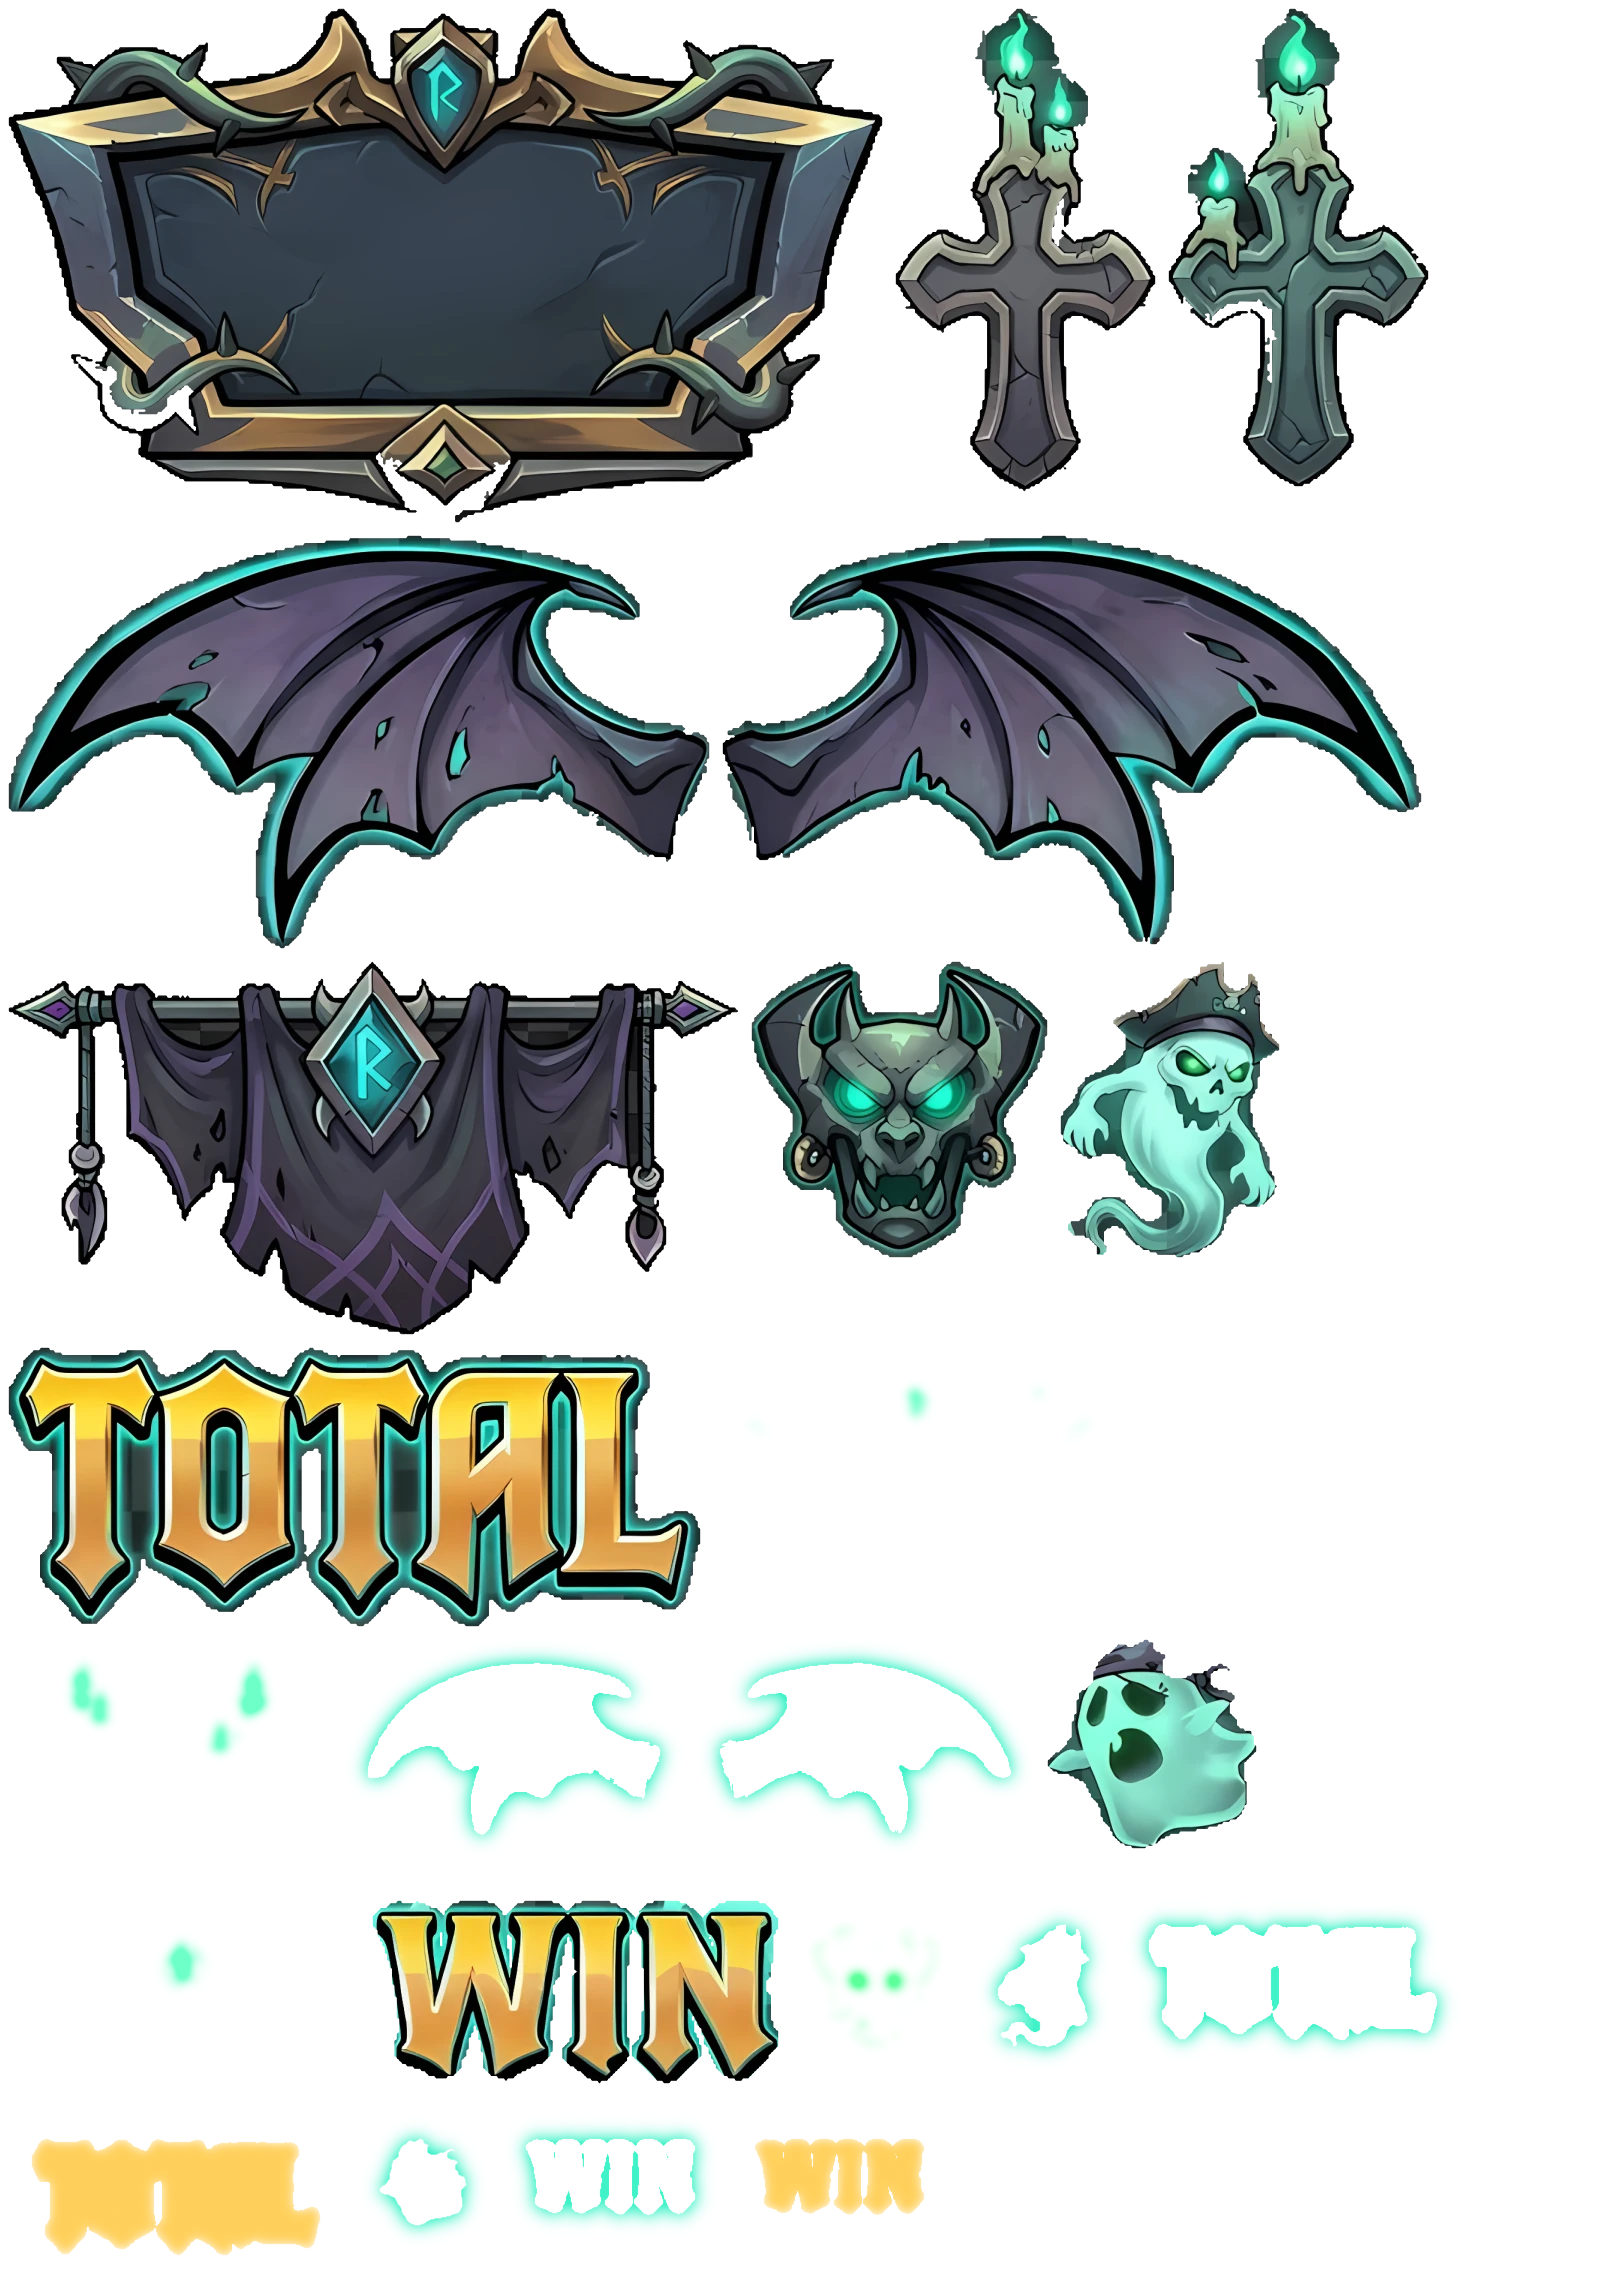
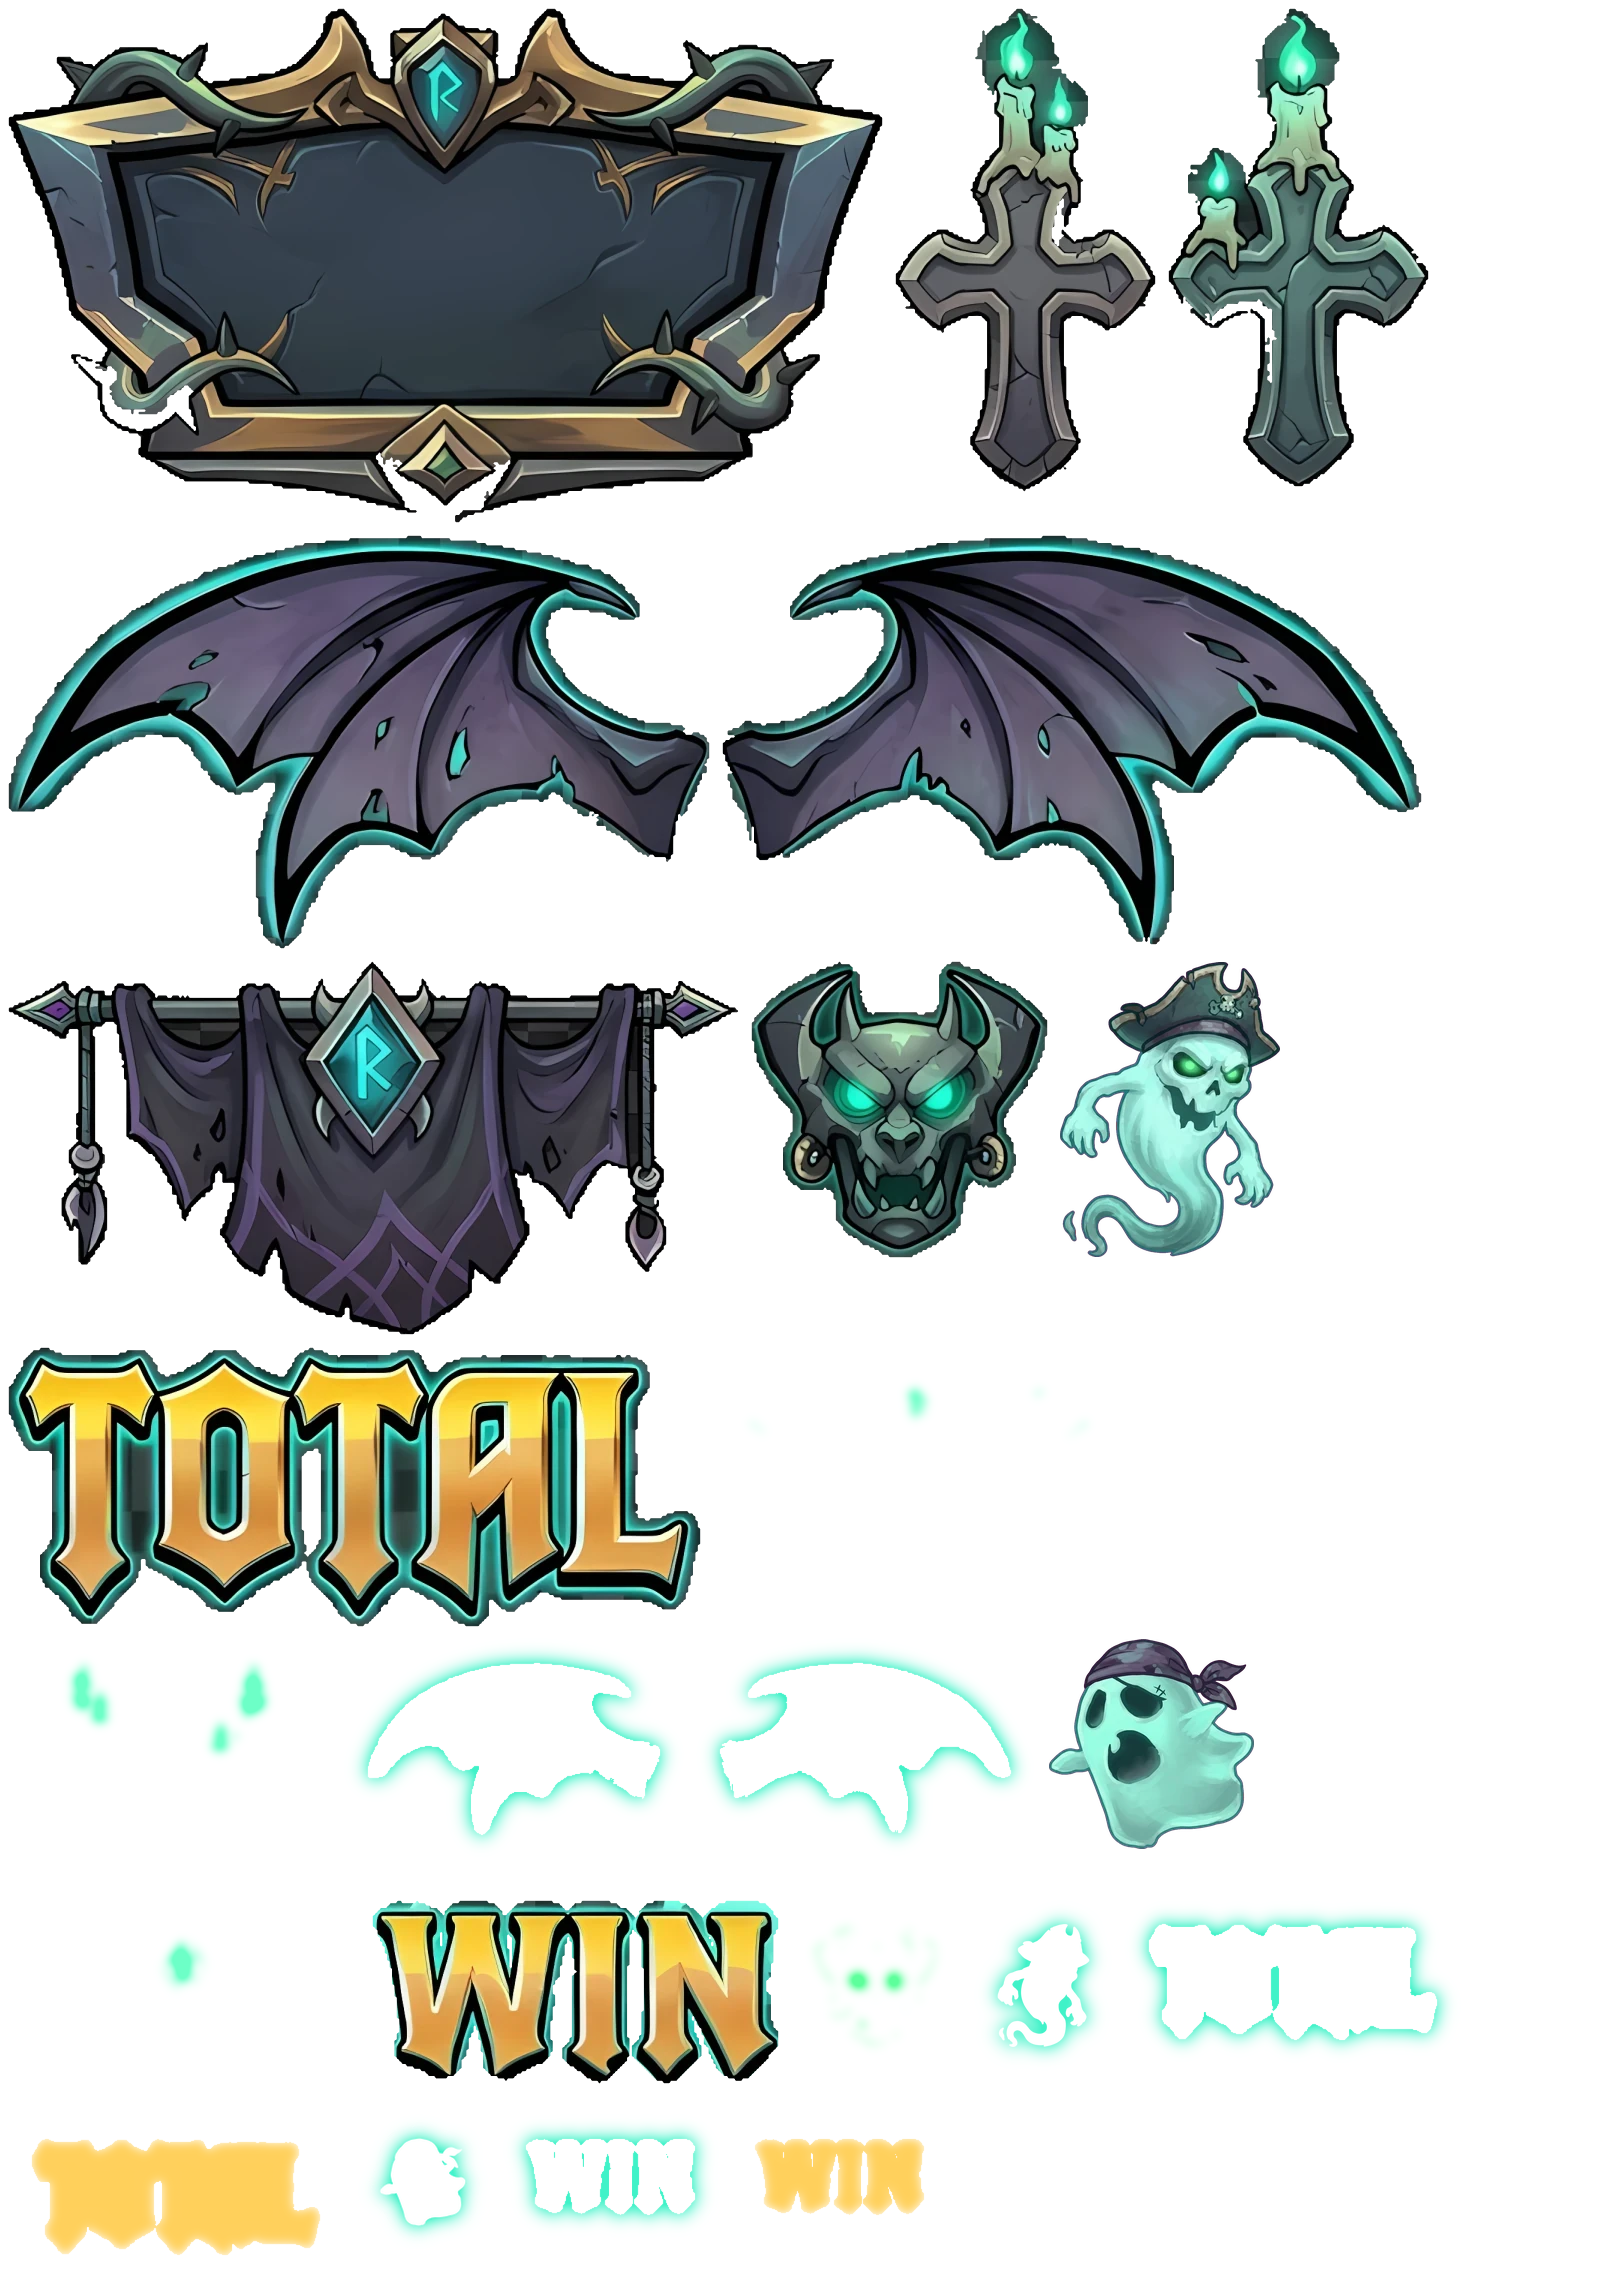
_UPLOAD_TO_STAKE: frontend with whole-step rune count-ups and the clean Total Win ghosts

diff --git a/_UPLOAD_TO_STAKE/2_frontend/game.js b/_UPLOAD_TO_STAKE/2_frontend/game.js
@@ -1143,6 +1143,7 @@ const MULT_POOL = [2, 3, 5]; // only for the rolling plate animation
 const fmtV = v => RGS.formatNumber(v);
 // rune and group values: no zeros that say nothing (1, 0.8, 2.25 instead of 1.00, 0.80), so the figures stay big
 const fmtR = v => Number(v).toLocaleString(RGS.lang, { maximumFractionDigits: 6 });
+const decimals = v => { let k = 0; while (k < 6 && Math.abs(Math.round(v * 10 ** k) - v * 10 ** k) > 1e-6) k++; return k; };
 let K = [];
 const at = (c, r) => K[c]?.[r];
 const kCells = t => { const o = []; K.forEach((col, c) => col.forEach((h, r) => { if (t === null ? !h : h && h.t === t) o.push([c, r]); })); return o; };
@@ -1366,7 +1367,9 @@ async function harvest(start, spinEvents, end) {
     await sleep(500);
     await Promise.all(g.cells.map(([c, r], i) => sleep(i * 40).then(() => {
       const t = q(reels[c].cells[r], ".rtok .rv"), from = K[c][r].v * bet, to = from * g.mult, t0 = performance.now();
-      return new Promise(res => (function step(tt) { const k = Math.min(1, Math.max(0, (tt - t0) / (500 / pace()))); setRv(t, fmtR(k < 1 ? RGS.roundMoney(from + (to - from) * k) : to)); if (k < 1) requestAnimationFrame(step); else res(); })(t0));
+      // counts in the steps of its own values (3 -> 6 shows 4 and 5, not 3.47), so no decimals flash up on the way
+      const f = 10 ** Math.max(decimals(from), decimals(to));
+      return new Promise(res => (function step(tt) { const k = Math.min(1, Math.max(0, (tt - t0) / (500 / pace()))); setRv(t, fmtR(k < 1 ? Math.round((from + (to - from) * k) * f) / f : to)); if (k < 1) requestAnimationFrame(step); else res(); })(t0));
     })));
     shake(6, 300);
     await sleep(450);
